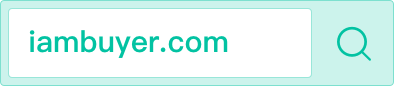
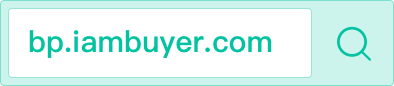
测试2.0

Changed region(s): [[0.0609, 0.3488, 0.7005, 0.6744]]

diff --git a/modules/pageFind/active/activeItems/content.vue b/modules/pageFind/active/activeItems/content.vue
@@ -14,7 +14,7 @@
 					<view class="line"></view>
 				</view>
 				<view class="AD-items-list">
-					<view class="AD-items">
+					<view class="AD-items disAD">
 						活动地点
 						<view :class=" isAll ? 'AD-text1 AD2' : 'AD-text AD2'">{{msgData.activity.activityAddress}}</view>
 						<text class="zhankai right" @tap="clickAllShow">{{isAll ? '收起' : '展开'}}</text>
@@ -70,22 +70,7 @@
 		  /* 格式图片 */
 		  dataImg (val) {
 			  return 'https://' + val;
-		  },
-		  // htmlImg (val) {
-			 //  //正则匹配所有img标签
-				// //var regex0 = new RegExp("(i?)(\<img)([^\>]+\>)","gmi");
-				// //正则匹配不含style="" 或 style='' 的img标签
-				// var regex1 = new RegExp("(i?)(\<img)(?!(.*?style=['\"](.*)['\"])[^\>]+\>)","gmi");
-				// //给不含style="" 或 style='' 的img标签加上style=""
-				// htmlstr = htmlstr.replace(regex1, "$2 style=\"\"$3");
-				// console.log("增加style=\"\"后的html字符串："+htmlstr);
-				// //正则匹配含有style的img标签
-				// var regex2 = new RegExp("(i?)(\<img.*?style=['\"])([^\>]+\>)","gmi");
-				// //在img标签的style里面增加css样式(这里增加的样式：display:block;max-width:100%;height:auto;border:5px solid red;)
-				// htmlstr = htmlstr.replace(regex2, "$2display:block;max-width:100%;height:auto;border:5px solid red;$3");
-				// console.log("在img标签的style里面增加样式后的html字符串："+htmlstr);
-				// return htmlstr;
-		  // }
+		  }
 		},
 		computed: {},
 		watch: {},
@@ -93,7 +78,7 @@
 		},
 	    methods: {
 			clickAllShow () {
-				console.log('展示全部')
+				console.log('展示全部');
 				this.isAll = !this.isAll;
 			}
 	    }
@@ -145,6 +130,9 @@
 		font-size: 28upx;
 		color: #5D5D5D;
 		line-height: 110upx;
+	}
+	.disAD{
+		display: flex;
 	}
 	.AD-text{
 		float: right;
@@ -204,7 +192,7 @@
 	.zhankai{
 		position: absolute;
 		font-size: 28upx;
-		color: red;
+		color: #02C2A2;
 		text-align: right;
 		line-height: 110upx;
 		right: 0;
@@ -220,16 +208,18 @@
 	}
 	.AD2{
 		max-width: 66% !important;
-		margin-right: 8% !important;
+		margin-left: 8% !important;
 		display: inline-block;
+		text-align: right;
 	}
 	.AD-text1{
-		position: absolute;
+		position: relative;
 		color: #5D5D5D;
 		line-height: 34upx !important;
 		max-width: 66% !important;
 		margin-left: 60upx;
-		top: 34upx;
+		padding-top: 30upx;
+		padding-bottom: 30upx;
 	}
 	.AD-details-title{
 		font-family: PingFangSC-Semibold;

diff --git a/modules/pageHome/homeList/FinancProject/FinancProject-items/botBtn.vue b/modules/pageHome/homeList/FinancProject/FinancProject-items/botBtn.vue
@@ -37,6 +37,16 @@
 				loved: this.Static + 'mbcImg/home/seekCapital/liked.png',
 				text: this.Static + 'mbcImg/home/seekCapital/text.png',
 				texted: this.Static + 'mbcImg/home/seekCapital/texted.png',
+				finance: {
+					loadingText: '加载更多...',
+					search: { // 搜索
+						pageNum: 0, // 总页数
+						searchCondition: {  // 分页属性
+							page: '1'
+						}
+					},
+					listData: '' // 主页在融项目列表数据
+				},
 				items: { // 用户缓存用户行为的子项
 					id: '', // id
 					doc: false, // 留言
@@ -99,7 +109,9 @@
 				setEnTrustShow: 'setEnTrustShow',
 				setEntrustType: 'setEntrustType',
 				setEntrustParams: 'setEntrustParams',
-				setAuthShow: 'setAuthShow'
+				setAuthShow: 'setAuthShow',
+				setUserActive: 'setUserActive',
+				setFinance: 'setFinance'
 			}),
 			message() {
 				
@@ -118,8 +130,6 @@
 				// this.isBPshow = true;
 				if (this.userType ==='1' || this.userType === '2') { // 1 个人投资人 2 机构投资人
 					if (this.authState !== '1') { // 没有认证.或者认证没通过
-						
-						console.log(UserData.userType, '------------UserData.userType----------');
 						this.$store.commit('setAuthShow', true); // 更新setAuthShow
 						return
 					} else {
@@ -160,8 +170,6 @@
 				console.log('触发申请');
 				if (this.userType ==='1' || this.userType === '2') { // 1 个人投资人 2 机构投资人
 					if (this.authState !== '1') { // 没有认证.或者认证没通过
-						
-						console.log(UserData.userType, '------------UserData.userType----------');
 						this.$store.commit('setAuthShow', true); // 更新setAuthShow
 						return
 					} else {
@@ -214,10 +222,14 @@
 				console.log(e, items, evn, '记录用户行为');
 				if (e === 'love') { // 收藏
 					if (this.items.love === false) {
+						this.$store.commit('setUserActive', 0); // 更新setUserActive
+						this.$store.commit('setFinance', this.finance); // 更新setFinance
 						this.items.love = true; // 点击之后状态变化
 						this.upDataIsLoved(evn); // 收藏
 						this.resetClickRecord(items);
 					} else {
+						this.$store.commit('setUserActive', 2); // 更新setUserActive
+						this.$store.commit('setFinance', this.finance); // 更新setFinance
 						this.items.love = false; // 点击之后状态变化
 						this.upDataIsLove(evn); // 收藏
 						this.resetClickRecord(items);

diff --git a/modules/pageHome/seekCapital/seekCapitalItems/investInstitution/investInstitutionItems/itemsDetails/itemsDetails-items/botBtn.vue b/modules/pageHome/seekCapital/seekCapitalItems/investInstitution/investInstitutionItems/itemsDetails/itemsDetails-items/botBtn.vue
@@ -226,6 +226,10 @@
 					this.$store.commit('setAuthShow', true); // 更新setAuthShow
 					return
 				} else if (this.userType === '1' || this.userType === '2') {
+					if (this.authState === '0' || this.authState === '2') { // 没有认证.或者认证没通过
+						this.$store.commit('setAuthShow', true); // 更新setAuthShow
+						return
+					}
 					this.$store.commit('setAuthShow', false); // 更新setAuthShow
 					uni.showToast({
 						title: '您已成为投资人身份，无法委托联系',
@@ -251,6 +255,10 @@
 					this.$store.commit('setAuthShow', true); // 更新setAuthShow
 					return
 				} else if (this.userType === '1' || this.userType === '2') {
+					if (this.authState === '0' || this.authState === '2') { // 没有认证.或者认证没通过
+						this.$store.commit('setAuthShow', true); // 更新setAuthShow
+						return
+					}
 					this.$store.commit('setAuthShow', false); // 更新setAuthShow
 					uni.showToast({
 						title: '您已成为投资人身份，无法委托联系',

diff --git a/modules/pageHome/seekCapital/seekCapitalItems/investor/inverstorItems/itemsDetails/itemsDetails-items/botBtn.vue b/modules/pageHome/seekCapital/seekCapitalItems/investor/inverstorItems/itemsDetails/itemsDetails-items/botBtn.vue
@@ -228,6 +228,10 @@
 					this.$store.commit('setAuthShow', true); // 更新setAuthShow
 					return
 				} else if (this.userType === '1' || this.userType === '2') {
+					if (this.authState === '0' || this.authState === '2') { // 没有认证.或者认证没通过
+						this.$store.commit('setAuthShow', true); // 更新setAuthShow
+						return
+					}
 					this.$store.commit('setAuthShow', false); // 更新setAuthShow
 					uni.showToast({
 						title: '您已成为投资人身份，无法委托联系',
@@ -253,6 +257,10 @@
 					this.$store.commit('setAuthShow', true); // 更新setAuthShow
 					return
 				} else if (this.userType === '1' || this.userType === '2') {
+					if (this.authState === '0' || this.authState === '2') { // 没有认证.或者认证没通过
+						this.$store.commit('setAuthShow', true); // 更新setAuthShow
+						return
+					}
 					this.$store.commit('setAuthShow', false); // 更新setAuthShow
 					uni.showToast({
 						title: '您已成为投资人身份，无法委托联系',

diff --git a/modules/pageHome/seekCapital/seekCapitalItems/investInstitution/investInstitutionItems/itemsDetails/itemsDetails.vue b/modules/pageHome/seekCapital/seekCapitalItems/investInstitution/investInstitutionItems/itemsDetails/itemsDetails.vue
@@ -20,7 +20,6 @@
 			<image class="TIPS-img" :src="close"  @tap="clickClose()"></image>
 			<view class="content">
 				<view class="TIPS-isnt">认证创业者可见全部内容</view>
-				<view class="line"></view>
 				<view class="TIPS-btn" @tap='goToAuth'>立即认证</view>
 			</view>
 		</tipsBox>
@@ -68,6 +67,12 @@
 		created() {
 			console.log('在组件中并不能使用页面生命周期函数');
 			this.getUserData();
+		},
+		beforeDestroy () {
+			console.log('页面销毁之前缓存数据');
+			if (uni.getStorageSync('isListSource')) {
+				uni.removeStorageSync('isListSource'); // 清除来源
+			}
 		},
 		mounted() {
 		},
@@ -198,4 +203,7 @@
 </script>
 
 <style>
+	.itemsDetails-content{
+		margin-bottom: 200upx;
+	}
 </style>

diff --git a/modules/pagePublish/publishList/uploadItems/scanland.vue b/modules/pagePublish/publishList/uploadItems/scanland.vue
@@ -3,7 +3,7 @@
 		<view class="scan-cont">
 			<view class="scanLand-box">
 				<view class="SL-title">第1步</view>
-				<view class="SL-strc">在电脑浏览器中输入“iambuyer.com”</view>
+				<view class="SL-strc">在电脑浏览器中输入“bp.iambuyer.com”</view>
 				<view class="SL-imgBoxOne">
 					<image class="SL-img" :src="scanTapOne"></image>
 				</view>
@@ -23,11 +23,11 @@
 </template>
 
 <script>
+	import scanTapOne from '@/static/mbcImg/publish/scanTapOne.png'
 	import { mapMutations } from 'vuex';
 	export default {
 	    data () {
 	      return {
-			scanTapOne: this.Static + 'mbcImg/publish/scanTapOne.png',
 	        scanTapTwo: this.Static + 'mbcImg/publish/scanTapTwo.png',
 			token: 0,
 	      };

diff --git a/modules/pageHome/homeList/FinancProject/FinancProject.vue b/modules/pageHome/homeList/FinancProject/FinancProject.vue
@@ -22,7 +22,6 @@
 			<image class="TIPS-img" :src="close" @tap="clickClose()"></image>
 			<view class="content">
 				<view class="TIPS-isnt">认证投资人可见全部内容</view>
-				<view class="line"></view>
 				<view class="TIPS-btn" @tap='goToAuth'>立即认证</view>
 			</view>
 		</tipsBox>
@@ -70,10 +69,19 @@
 		created () {
 			this.getUserData();
 		},
+		beforeDestroy () {
+			console.log('页面销毁之前缓存数据');
+			if (uni.getStorageSync('isListSource')) {
+				uni.removeStorageSync('isListSource'); // 清除来源
+			}
+		},
 		onLoad(option) {
 			this.project.id = option.id;
 			this.getList(option.id);
 			this.getUserApply(option.id);
+			if (option.type) {
+				
+			}
 		},
 		mounted() {
 			

diff --git a/modules/pageHome/seekCapital/seekCapitalItems/investor/inverstorItems/itemsDetails/itemsDetails.vue b/modules/pageHome/seekCapital/seekCapitalItems/investor/inverstorItems/itemsDetails/itemsDetails.vue
@@ -18,7 +18,6 @@
 			<image class="TIPS-img" :src="close" @tap="clickClose()"></image>
 			<view class="content">
 				<view class="TIPS-isnt">认证创业者可见全部内容</view>
-				<view class="line"></view>
 				<view class="TIPS-btn" @tap='goToAuth'>立即认证</view>
 			</view>
 		</tipsBox>
@@ -63,6 +62,12 @@
 		created() {
 			console.log('在组件中并不能使用页面生命周期函数');
 			this.getUserData();
+		},
+		beforeDestroy () {
+			console.log('页面销毁之前缓存数据');
+			if (uni.getStorageSync('isListSource')) {
+				uni.removeStorageSync('isListSource'); // 清除来源
+			}
 		},
 		mounted() {
 		},

diff --git a/pages/mbc/template/pageHome/page_home.vue b/pages/mbc/template/pageHome/page_home.vue
@@ -96,7 +96,7 @@ export default {
 		homeList
 	},
 	computed: {
-		...mapGetters(['GET_HOME'])
+		...mapGetters(['GET_HOME', 'USERACTIVE'])
 	},
 	watch: {
 		GET_HOME: {
@@ -109,6 +109,12 @@ export default {
 					this.paramsList = this.HomeList.finance; // 参数为在融项目模块 
 					this.loadingText = this.HomeList.invest.loadingText; // 底部加载提示显示
 				}
+			},
+			deep: true
+		},
+		USERACTIVE: {
+			handler (a, b) {
+				this.getFinanceList(this.HomeList.finance); // 首页初始化时，默认显示在融项目，参数为在融项目模块
 			},
 			deep: true
 		}

diff --git a/pages/mbc/template/pagePublish/page_publish.vue b/pages/mbc/template/pagePublish/page_publish.vue
@@ -17,13 +17,11 @@
 				<image class="TIPS-img" :src="close"  @tap="clickClose()"></image>
 				<div class="content">
 					<div class="TIPS-isnt">认证成为创业者，可发布项目</div>
-					<div class="line"></div>
 					<div class="TIPS-btn" @tap='goToAuth'>立即认证</div>
 				</div>
 			</div>
 			<div class="content" v-if='GET_PUBLISH.isUpLoadFile.isFileSuccess === true'>
 				<div class="TIPS-isnt">发布成功</div>
-				<div class="line"></div>
 				<div class="TIPS-btn" @tap='goToBp'>确定</div>
 			</div>
 		</tipsBox>

diff --git a/modules/pageHome/homeModules/lookProject/seekCapitalItems/lookProject/lookProjectItems/finance-Items.vue b/modules/pageHome/homeModules/lookProject/seekCapitalItems/lookProject/lookProjectItems/finance-Items.vue
@@ -98,6 +98,7 @@
 </template>
 
 <script>
+	import { mapGetters } from 'vuex';
 	export default {
 	    data () {
 			return {
@@ -125,6 +126,17 @@
 		props: {
 			msgData: {
 				type: Object
+			}
+		},
+		computed: {
+			...mapGetters(['USERACTIVE'])
+		},
+		watch: {
+			USERACTIVE: {
+				handler (a, b) {
+					this.getClickRecord();
+				},
+				deep: true
 			}
 		},
 		filters:{

diff --git a/pages/mbc/template/pageHome/homeList/homeListItems/listModules/finance/finance-Items.vue b/pages/mbc/template/pageHome/homeList/homeListItems/listModules/finance/finance-Items.vue
@@ -98,6 +98,7 @@
 </template>
 
 <script>
+	import { mapGetters } from 'vuex';
 	export default {
 	    data () {
 			return {
@@ -125,6 +126,17 @@
 		props: {
 			msgData: {
 				type: Object
+			}
+		},
+		computed: {
+			...mapGetters(['USERACTIVE'])
+		},
+		watch: {
+			USERACTIVE: {
+				handler (a, b) {
+					this.getClickRecord();
+				},
+				deep: true
 			}
 		},
 		filters:{
